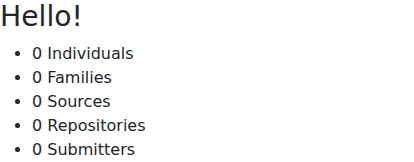
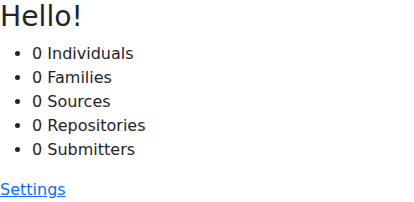
Replace hello page with settings page (#392)
* Replace hello page with settings page

Rename the hello component to settings, add a Request Permissions
action alongside the existing GEDCOM/multimedia loading and clear
database actions, and route /settings instead of /hello (including
the ancestryDatabaseResolver redirect). Link to it from the index
page.

Claude-Session: https://claude.ai/code/session_01Mqia6BNoeNsYpT7TtsFhJS

* Fix prettier formatting in settings component

Claude-Session: https://claude.ai/code/session_01Mqia6BNoeNsYpT7TtsFhJS

* Add settings link to nav, drop redundant header actions

The left nav now links to /settings. Since that page already covers
requesting permissions and clearing the database, drop those two
actions from the header and the mobile nav-actions panel (the search
box stays), along with the now-unused AncestryService injection in
AppComponent.

Claude-Session: https://claude.ai/code/session_01Mqia6BNoeNsYpT7TtsFhJS

* Add screenshot test for SettingsComponent

Claude-Session: https://claude.ai/code/session_01Mqia6BNoeNsYpT7TtsFhJS

* Upload screenshot test failures as CI artifacts

Local screenshot rendering (even with the same chromium build CI
uses) doesn't reliably byte-match CI's Ubuntu font stack, so a
locally-regenerated baseline can still fail on the actual runner.
Upload .vitest/attachments on failure so the real diff/actual
screenshots are downloadable instead of only visible in job logs.

Claude-Session: https://claude.ai/code/session_01Mqia6BNoeNsYpT7TtsFhJS
[…]

diff --git a/src/app/settings/settings.component.spec.ts b/src/app/settings/settings.component.spec.ts
@@ -1,25 +1,27 @@
 import { TestBed, type ComponentFixture } from "@angular/core/testing";
 import { render } from "@testing-library/angular/zoneless";
 import { aroundEach, assert, beforeEach, describe, expect, it } from "vitest";
+import { page } from "vitest/browser";
 import { AncestryService } from "../../database/ancestry.service";
-import { HelloComponent } from "./hello.component";
+import { SettingsComponent } from "./settings.component";
 
-describe("HelloComponent", () => {
-  let component: HelloComponent;
-  let fixture: ComponentFixture<HelloComponent>;
+describe("SettingsComponent", () => {
+  let component: SettingsComponent;
+  let fixture: ComponentFixture<SettingsComponent>;
+  let element: HTMLElement;
   let ancestryService: AncestryService;
 
   let gedcomFileHandle: FileSystemFileHandle;
-  let multimediaDirectoryHandle: FileSystemDirectoryHandle;
 
   beforeEach(async () => {
-    const renderResult = await render(HelloComponent, {
+    const renderResult = await render(SettingsComponent, {
       waitForStableOnRender: true,
     });
 
     ancestryService = TestBed.inject(AncestryService);
     fixture = renderResult.fixture;
     component = fixture.componentInstance;
+    element = fixture.nativeElement as HTMLElement;
   });
 
   beforeEach(async () => {
@@ -27,10 +29,7 @@ describe("HelloComponent", () => {
     gedcomFileHandle = await rootDirectory.getFileHandle("ancestry.ged", {
       create: true,
     });
-    multimediaDirectoryHandle = await rootDirectory.getDirectoryHandle(
-      "multimedia",
-      { create: true },
-    );
+    await rootDirectory.getDirectoryHandle("multimedia", { create: true });
   });
 
   // Polyfill window.showOpenFilePicker
@@ -44,6 +43,20 @@ describe("HelloComponent", () => {
 
   it("should create", () => {
     expect(component).toBeTruthy();
+  });
+
+  it("matches screenshot", async () => {
+    // Guarantee the empty state regardless of GEDCOM/multimedia state left
+    // behind by other specs sharing the same IndexedDB database.
+    await ancestryService.clearDatabase();
+    await fixture.whenStable();
+    // CI's chrome-headless-shell renders this page's card borders/icons with
+    // slightly different antialiasing than the plain chromium binary
+    // available in sandboxes, producing a small, deterministic pixel diff
+    // (consistently ~3598px / 2%) unrelated to any real layout change.
+    await expect(page.elementLocator(element)).toMatchScreenshot({
+      comparatorOptions: { allowedMismatchedPixelRatio: 0.03 },
+    });
   });
 
   it("should call openGedcom when button is clicked", () => {

diff --git a/src/app/settings/settings.component.ts b/src/app/settings/settings.component.ts
@@ -3,12 +3,12 @@ import { Router } from "@angular/router";
 import { AncestryService } from "../../database/ancestry.service";
 
 @Component({
-  selector: "app-hello",
+  selector: "app-settings",
   imports: [],
-  templateUrl: "./hello.component.html",
-  styleUrl: "./hello.component.css",
+  templateUrl: "./settings.component.html",
+  styleUrl: "./settings.component.css",
 })
-export class HelloComponent {
+export class SettingsComponent {
   private readonly ancestryService = inject(AncestryService);
   private readonly router = inject(Router);
 
@@ -25,14 +25,6 @@ export class HelloComponent {
         ],
       });
       await this.ancestryService.openGedcom(fileHandle);
-      // If successful, we can optionally navigate or just let the user see the file is loaded.
-      // The user request says: "If a gedcom file is loaded, perhaps we should ask the user if they would like to load a new file on this page."
-      // But also "If no gedcom file is loaded, we should always redirect the user to the /hello page."
-      // If we seek to make it "better", upon loading, we probably want to send them to the main view if they just loaded it?
-      // Or maybe stay here. The requirements didn't explicitly say "auto-redirect after load", but standard flow implies it.
-      // However, keeping them here allows them to load multimedia too.
-      // Let's stick to the prompt: "The file handle for both of these should get stored in the dexie database."
-      // I'll leave them here to optionally load multimedia, but maybe provide a "Go to App" button if loaded.
     } catch (err) {
       console.error(err);
     }
@@ -45,6 +37,14 @@ export class HelloComponent {
         mode: "read",
       });
       await this.ancestryService.openMultimedia(directoryHandle);
+    } catch (err) {
+      console.error(err);
+    }
+  }
+
+  async requestPermissions() {
+    try {
+      await this.ancestryService.requestPermissions();
     } catch (err) {
       console.error(err);
     }

diff --git a/src/app/app.component.html b/src/app/app.component.html
@@ -12,19 +12,6 @@
   </a>
   <div style="flex: 1"></div>
   <div class="d-none d-md-flex align-items-center gap-2">
-    <input
-      type="button"
-      (click)="requestPermissions()"
-      class="btn btn-outline-success"
-      value="Request Permissions"
-    />
-    <input
-      id="clearDatabaseButton"
-      type="button"
-      class="btn btn-outline-danger"
-      (click)="clearDatabase()"
-      value="Clear Database"
-    />
     <div class="input-group w-auto">
       <input class="form-control" type="search" placeholder="Search" />
       <button class="btn btn-outline-success" type="submit">Search</button>
@@ -50,24 +37,13 @@
   <a routerLink="/multimedias" (click)="closeSidebar()">Multimedia</a>
   <a routerLink="/places" (click)="closeSidebar()">Places</a>
   <a routerLink="/validation" (click)="closeSidebar()">Validation</a>
+  <a routerLink="/settings" (click)="closeSidebar()">Settings</a>
 
   <div class="nav-actions d-md-none">
     <div class="input-group">
       <input class="form-control" type="search" placeholder="Search" />
       <button class="btn btn-outline-success" type="submit">Search</button>
     </div>
-    <input
-      type="button"
-      (click)="requestPermissions()"
-      class="btn btn-outline-success"
-      value="Request Permissions"
-    />
-    <input
-      type="button"
-      class="btn btn-outline-danger"
-      (click)="clearDatabase()"
-      value="Clear Database"
-    />
   </div>
 </nav>
 

diff --git a/src/app/app.routes.ts b/src/app/app.routes.ts
@@ -5,7 +5,6 @@ import { FamilyFactsComponent } from "./family/family-facts.component";
 import { FamilyGedcomComponent } from "./family/family-gedcom.component";
 import { FamilySourcesComponent } from "./family/family-sources.component";
 import { FamilyComponent } from "./family/family.component";
-import { HelloComponent } from "./hello/hello.component";
 import { IndexComponent } from "./index/index.component";
 import { IndividualAncestorsComponent } from "./individual/individual-ancestors.component";
 import { IndividualFactsComponent } from "./individual/individual-facts.component";
@@ -19,6 +18,7 @@ import { PageNotFoundComponent } from "./page-not-found/page-not-found.component
 import { PlacesComponent } from "./places/places.component";
 import { RepositoriesComponent } from "./repositories/repositories.component";
 import { RepositoryComponent } from "./repository/repository.component";
+import { SettingsComponent } from "./settings/settings.component";
 import { SourceComponent } from "./source/source.component";
 import { SourcesComponent } from "./sources/sources.component";
 import { ValidationComponent } from "./validation/validation.component";
@@ -31,8 +31,8 @@ export const routes: Routes = [
     runGuardsAndResolvers: "always",
   },
   {
-    path: "hello",
-    component: HelloComponent,
+    path: "settings",
+    component: SettingsComponent,
   },
   {
     path: "individuals",

diff --git a/src/app/app.component.ts b/src/app/app.component.ts
@@ -1,6 +1,5 @@
-import { Component, inject, signal } from "@angular/core";
+import { Component, signal } from "@angular/core";
 import { RouterLink, RouterOutlet } from "@angular/router";
-import { AncestryService } from "../database/ancestry.service";
 
 @Component({
   selector: "app-root",
@@ -9,8 +8,6 @@ import { AncestryService } from "../database/ancestry.service";
   styleUrl: "./app.component.css",
 })
 export class AppComponent {
-  private readonly ancestryService = inject(AncestryService);
-
   readonly sidebarOpen = signal(false);
 
   toggleSidebar() {
@@ -19,22 +16,5 @@ export class AppComponent {
 
   closeSidebar() {
     this.sidebarOpen.set(false);
-  }
-
-  async requestPermissions() {
-    try {
-      await this.ancestryService.requestPermissions();
-    } catch (err) {
-      console.error(err);
-    }
-  }
-
-  async clearDatabase() {
-    try {
-      await this.ancestryService.clearDatabase();
-      window.location.reload();
-    } catch (err) {
-      console.error(err);
-    }
   }
 }

diff --git a/src/app/app.component.spec.ts b/src/app/app.component.spec.ts
@@ -1,9 +1,8 @@
 import type { ComponentFixture } from "@angular/core/testing";
 import { provideRouter } from "@angular/router";
 import { render } from "@testing-library/angular/zoneless";
-import { beforeEach, describe, expect, it, vi } from "vitest";
+import { beforeEach, describe, expect, it } from "vitest";
 import { page } from "vitest/browser";
-import { AncestryService } from "../database/ancestry.service";
 import { AppComponent } from "./app.component";
 
 describe("AppComponent", () => {
@@ -12,16 +11,8 @@ describe("AppComponent", () => {
   let element: HTMLElement;
 
   beforeEach(async () => {
-    const spy = {
-      requestPermissions: vi.fn(),
-      clearDatabase: vi.fn(),
-    };
-
     const renderResult = await render(AppComponent, {
-      providers: [
-        { provide: AncestryService, useValue: spy },
-        provideRouter([]),
-      ],
+      providers: [provideRouter([])],
       waitForStableOnRender: true,
     });
 

diff --git a/src/app/index/index.component.spec.ts b/src/app/index/index.component.spec.ts
@@ -1,5 +1,6 @@
 import { inputBinding, signal } from "@angular/core";
 import type { ComponentFixture } from "@angular/core/testing";
+import { provideRouter } from "@angular/router";
 import { render } from "@testing-library/angular/zoneless";
 import { beforeEach, describe, expect, it } from "vitest";
 import { page } from "vitest/browser";
@@ -13,6 +14,7 @@ describe("IndexComponent", () => {
 
   beforeEach(async () => {
     const renderResult = await render(IndexComponent, {
+      providers: [provideRouter([])],
       bindings: [inputBinding("ancestryDatabase", signal(newGedcomDatabase()))],
       waitForStableOnRender: true,
     });

diff --git a/src/app/settings/settings.component.html b/src/app/settings/settings.component.html
@@ -1,7 +1,7 @@
 <div class="container mt-5">
   <div class="card">
     <div class="card-header">
-      <h1>Welcome to Ancestry</h1>
+      <h1>Settings</h1>
     </div>
     <div class="card-body">
       <p class="lead">
@@ -55,7 +55,13 @@
         }
 
         <hr />
-        <div>
+        <div class="d-flex gap-2">
+          <button
+            class="btn btn-outline-success"
+            (click)="requestPermissions()"
+          >
+            Request Permissions
+          </button>
           <button class="btn btn-danger" (click)="clearDatabase()">
             Clear Database & Reset
           </button>

diff --git a/src/app/index/index.component.ts b/src/app/index/index.component.ts
@@ -1,9 +1,10 @@
 import { Component, computed, input } from "@angular/core";
+import { RouterLink } from "@angular/router";
 import type { GedcomDatabase } from "../../gedcom/gedcomDatabase";
 
 @Component({
   selector: "app-index",
-  imports: [],
+  imports: [RouterLink],
   templateUrl: "./index.component.html",
   styleUrl: "./index.component.css",
 })

diff --git a/src/database/ancestry.service.ts b/src/database/ancestry.service.ts
@@ -177,7 +177,7 @@ export const ancestryDatabaseResolver: ResolveFn<
   );
   const database = ancestryService.ancestryDatabase();
   if (database === undefined) {
-    return new RedirectCommand(router.parseUrl("/hello"));
+    return new RedirectCommand(router.parseUrl("/settings"));
   }
   return database;
 };

diff --git a/src/app/index/index.component.html b/src/app/index/index.component.html
@@ -6,3 +6,4 @@
   <li>{{ vm().repositories.length }} Repositories</li>
   <li>{{ vm().submitters.length }} Submitters</li>
 </ul>
+<a routerLink="/settings">Settings</a>
